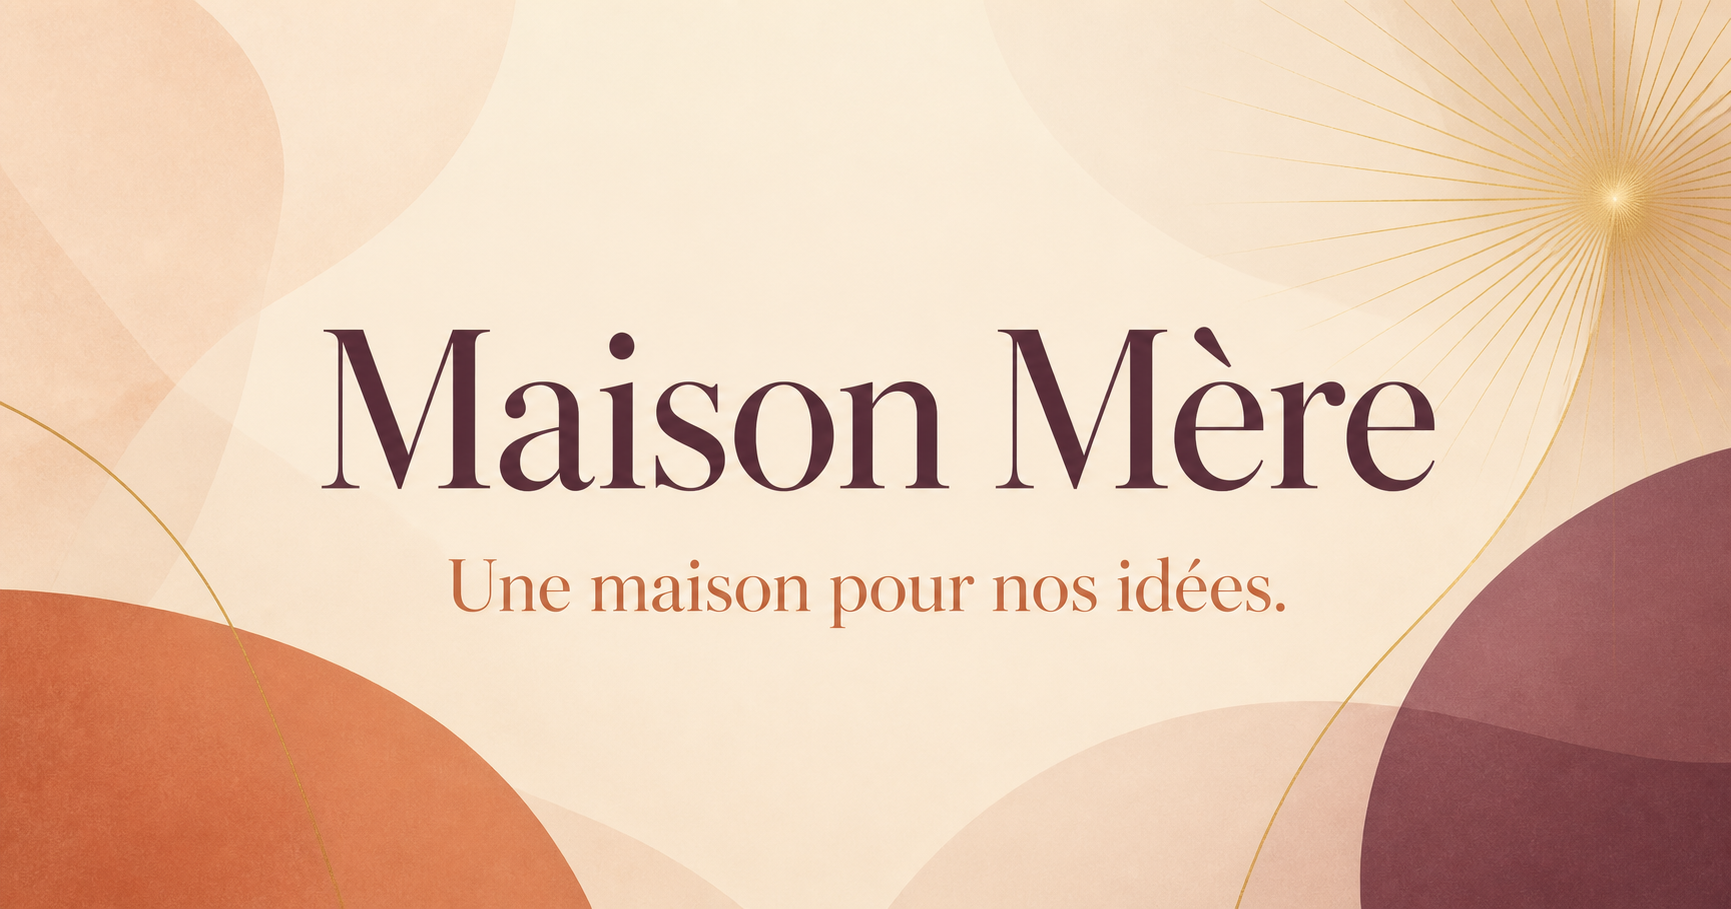
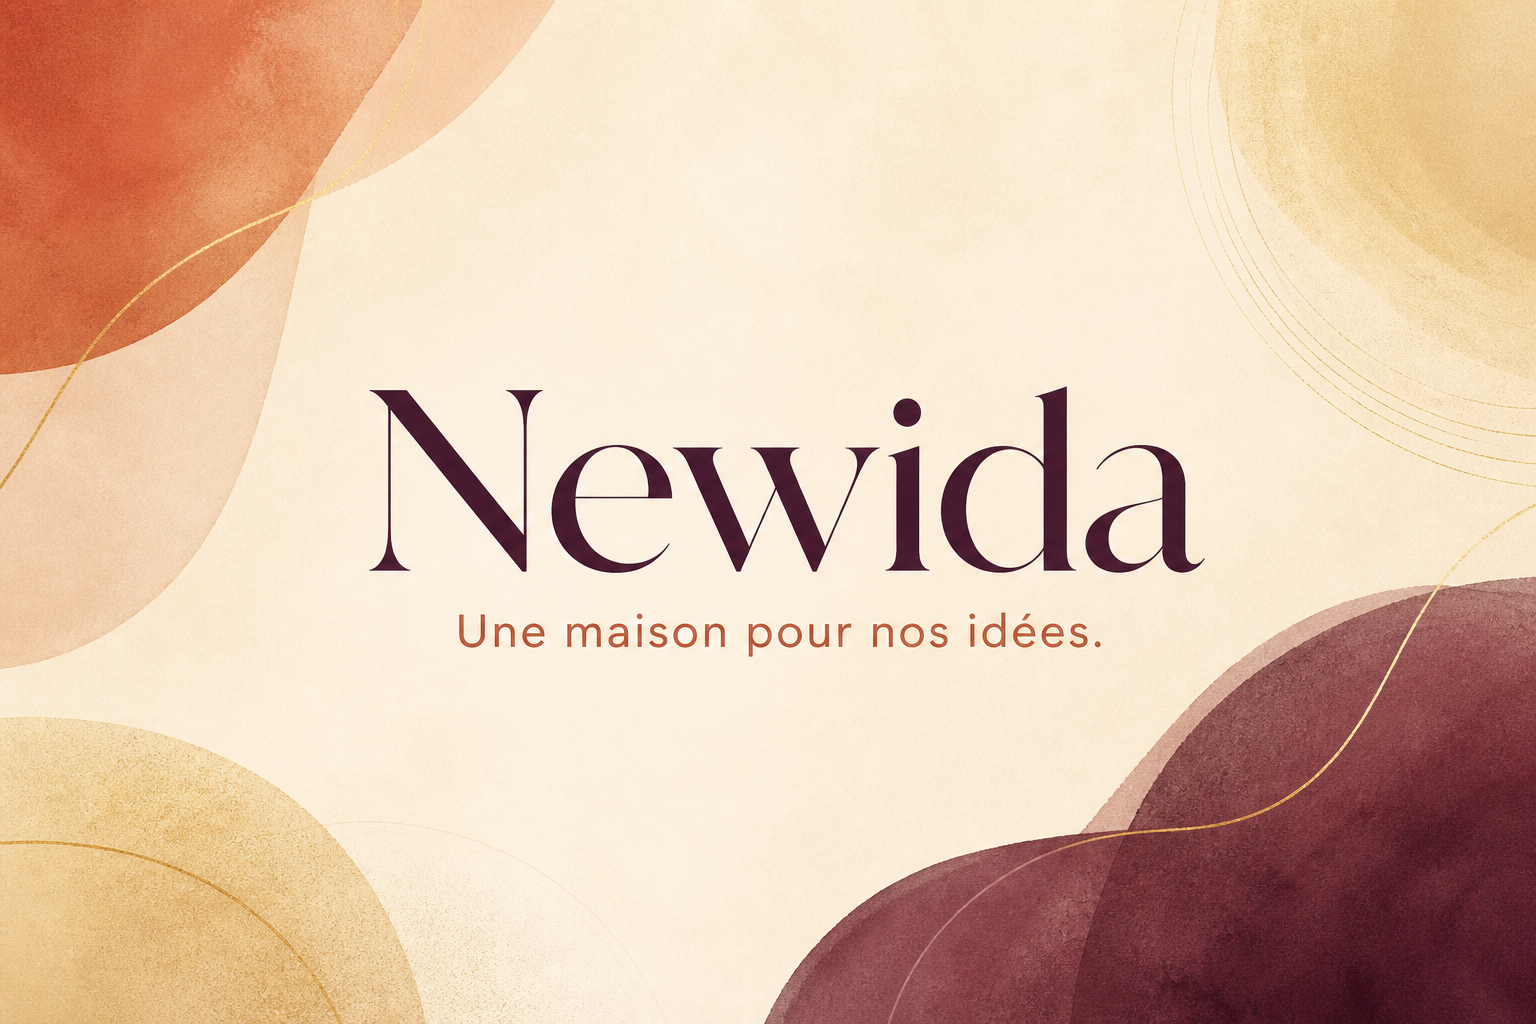
Rename site brand to Newida

diff --git a/app/page.tsx b/app/page.tsx
@@ -42,10 +42,10 @@ export default function Home() {
   return (
     <main>
       <header className="site-header">
-        <a className="brand" href="#top" aria-label="Maison Mère, accueil"><span className="brand-mark">MM</span><span>Maison Mère</span></a>
+        <a className="brand" href="#top" aria-label="Newida, accueil"><span className="brand-mark">N</span><span>Newida</span></a>
         <nav aria-label="Navigation principale">
           <a href="#projets">Projets</a><a href="#manifeste">Manifeste</a>
-          <a className="nav-pill" href="mailto:bonjour@maisonmere.studio">Nous écrire <Arrow /></a>
+          <a className="nav-pill" href="mailto:bonjour@newida.studio">Nous écrire <Arrow /></a>
         </nav>
       </header>
 
@@ -53,7 +53,7 @@ export default function Home() {
         <div className="hero-glow glow-one" /><div className="hero-glow glow-two" />
         <p className="eyebrow"><span /> Notre terrain de jeu collectif</p>
         <h1>Des idées qui vivent.<em> Une maison pour les réunir.</em></h1>
-        <p className="hero-copy">Nous imaginons, construisons et faisons grandir des produits utiles. Maison Mère est la porte d’entrée vers tout ce que notre équipe crée.</p>
+        <p className="hero-copy">Nous imaginons, construisons et faisons grandir des produits utiles. Newida est la porte d’entrée vers tout ce que notre équipe crée.</p>
         <a className="primary-cta" href="#projets">Découvrir nos projets <span aria-hidden="true">↓</span></a>
         <div className="hero-meta" aria-label="Quelques chiffres">
           <div><strong>03</strong><span>projets à découvrir</span></div><div><strong>01</strong><span>équipe curieuse</span></div><div><strong>∞</strong><span>idées en mouvement</span></div>
@@ -90,8 +90,8 @@ export default function Home() {
       </section>
 
       <footer>
-        <div className="footer-brand">Maison Mère<span>✦</span></div><p>Le point de départ de nos prochaines idées.</p>
-        <a href="mailto:bonjour@maisonmere.studio">bonjour@maisonmere.studio <Arrow /></a><small>© 2026 Maison Mère — Montréal, QC</small>
+        <div className="footer-brand">Newida<span>✦</span></div><p>Le point de départ de nos prochaines idées.</p>
+        <a href="mailto:bonjour@newida.studio">bonjour@newida.studio <Arrow /></a><small>© 2026 Newida — Montréal, QC</small>
       </footer>
     </main>
   );

diff --git a/app/layout.tsx b/app/layout.tsx
@@ -3,18 +3,18 @@ import './globals.css';
 
 export const metadata: Metadata = {
   metadataBase: new URL('https://maison-mere-projets.berguin-paul.chatgpt.site'),
-  title: 'Maison Mère — Nos projets',
+  title: 'Newida — Nos projets',
   description: 'Le hub de notre équipe : découvrez les produits, services et idées que nous construisons.',
   openGraph: {
-    title: 'Maison Mère — Nos projets',
+    title: 'Newida — Nos projets',
     description: 'Une maison pour nos idées, nos produits et nos explorations.',
-    images: [{ url: '/og.png', width: 1792, height: 928, alt: 'Maison Mère — Une maison pour nos idées.' }],
+    images: [{ url: '/og.png', width: 1792, height: 928, alt: 'Newida — Une maison pour nos idées.' }],
     locale: 'fr_CA',
     type: 'website',
   },
   twitter: {
     card: 'summary_large_image',
-    title: 'Maison Mère — Nos projets',
+    title: 'Newida — Nos projets',
     description: 'Une maison pour nos idées, nos produits et nos explorations.',
     images: ['/og.png'],
   },
